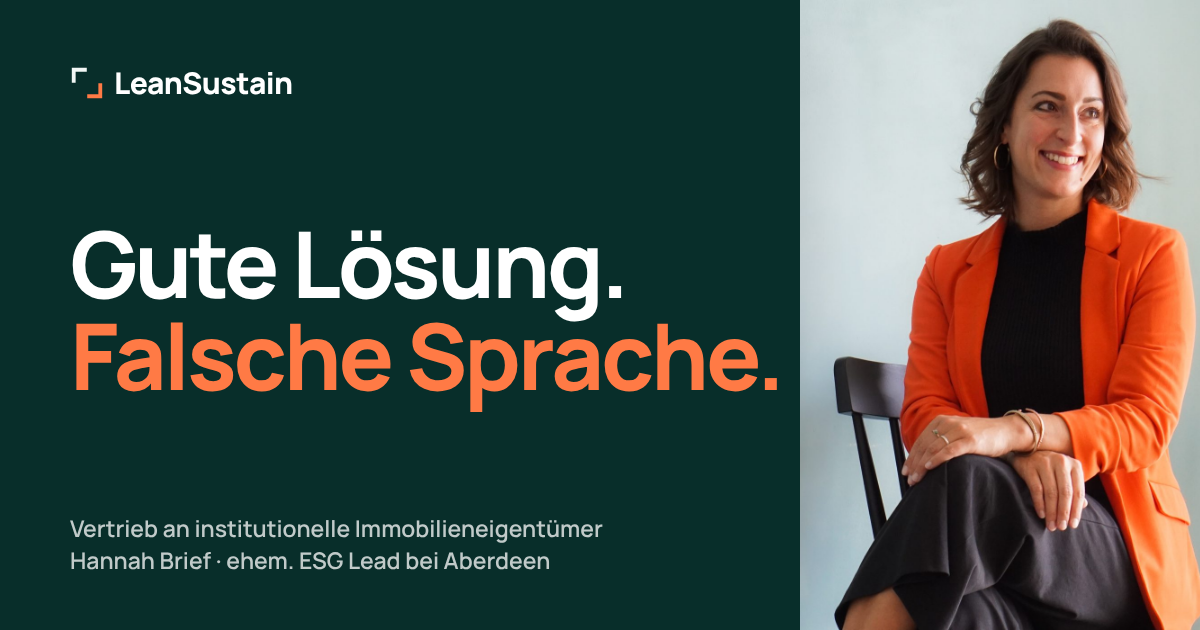
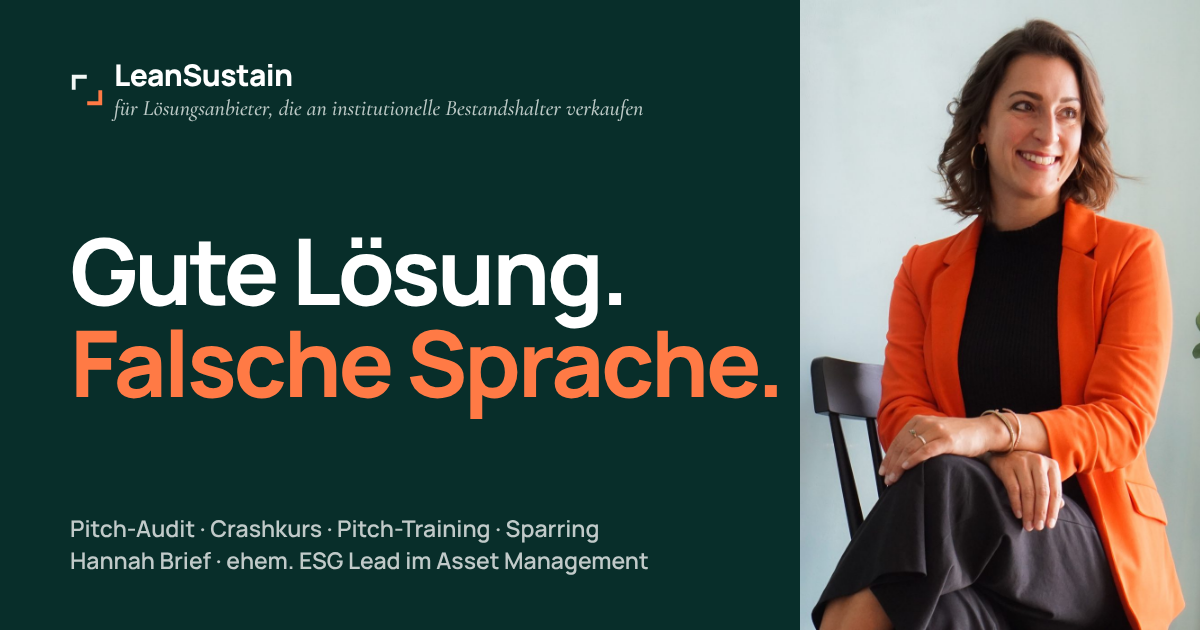
Add files via upload

diff --git a/index.html b/index.html
@@ -3,14 +3,14 @@
 <head>
 <meta charset="UTF-8">
 <meta name="viewport" content="width=device-width, initial-scale=1">
-<title>Vertrieb an institutionelle Immobilieneigentümer | LeanSustain</title>
-<meta name="description" content="Gute Lösung, falsche Sprache? Pitch-Audit, Crashkurs, Pitch-Training, Sparring und Onboarding für Anbieter, die an Asset Manager, Fonds und institutionelle Immobilieneigentümer verkaufen. Hannah Brief, Frankfurt.">
+<title>LeanSustain – Brücke zwischen Technik und Eigentümersprache</title>
+<meta name="description" content="Pitch-Audit, Crashkurs, Pitch-Training und Sparring für Lösungsanbieter, die an institutionelle Bestandshalter verkaufen. Von einer ehemaligen ESG Lead im Asset Management. Frankfurt.">
 <link rel="canonical" href="https://leansustain.de/">
 <meta property="og:type" content="website">
 <meta property="og:url" content="https://leansustain.de/">
 <meta property="og:site_name" content="LeanSustain">
-<meta property="og:title" content="Gute Lösung. Falsche Sprache.">
-<meta property="og:description" content="Ich bringe Vertriebsteams bei, so zu argumentieren, wie institutionelle Immobilieneigentümer entscheiden: nach Rendite, Risiko und Pflicht.">
+<meta property="og:title" content="LeanSustain – Gute Lösung. Falsche Sprache.">
+<meta property="og:description" content="Ich bringe Vertriebsteams von Lösungsanbietern bei, so zu argumentieren, wie institutionelle Bestandshalter entscheiden: nach Rendite, Risiko, Pflicht und Vermietbarkeit.">
 <meta property="og:image" content="https://leansustain.de/assets/og-image.png">
 <meta property="og:image:width" content="1200">
 <meta property="og:image:height" content="630">
@@ -19,10 +19,10 @@
 <meta name="theme-color" content="#082E2A">
 <link rel="icon" href="assets/favicon.svg" type="image/svg+xml">
 <link rel="preload" href="fonts/Manrope.woff2" as="font" type="font/woff2" crossorigin>
-<link rel="stylesheet" href="assets/styles.css?v=20261029d">
+<link rel="stylesheet" href="assets/styles.css?v=20261029f">
 <script type="application/ld+json">
 {"@context":"https://schema.org","@graph":[
-{"@type":"ProfessionalService","@id":"https://leansustain.de/#org","name":"LeanSustain","url":"https://leansustain.de/","logo":"https://leansustain.de/assets/favicon.svg","image":"https://leansustain.de/assets/og-image.png","email":"hannah@leansustain.de","telephone":"+4915144900768","address":{"@type":"PostalAddress","addressLocality":"Frankfurt am Main","addressCountry":"DE"},"areaServed":["DE","AT","CH"],"description":"Vertriebs-Enablement für Anbieter, die an institutionelle Immobilieneigentümer verkaufen: Pitch-Audit, Crashkurs, Pitch-Training, Sparring und Onboarding-Module.","founder":{"@id":"https://leansustain.de/#hannah"}},
+{"@type":"ProfessionalService","@id":"https://leansustain.de/#org","name":"LeanSustain","url":"https://leansustain.de/","logo":"https://leansustain.de/assets/favicon.svg","image":"https://leansustain.de/assets/og-image.png","email":"hannah@leansustain.de","telephone":"+4915144900768","address":{"@type":"PostalAddress","addressLocality":"Frankfurt am Main","addressCountry":"DE"},"areaServed":["DE","AT","CH"],"description":"Vertriebs-Enablement für Lösungsanbieter, die an institutionelle Bestandshalter verkaufen: Pitch-Audit, Crashkurs, Pitch-Training, Sparring und Onboarding-Module.","founder":{"@id":"https://leansustain.de/#hannah"}},
 {"@type":"Person","@id":"https://leansustain.de/#hannah","name":"Hannah Brief","jobTitle":"Beraterin","worksFor":{"@id":"https://leansustain.de/#org"},"sameAs":["https://www.linkedin.com/in/hannah-brief-a93555134/"]}
 ]}
 </script>
@@ -31,7 +31,7 @@
 
 <header class="site-header" id="top">
   <div class="wrap head-in">
-    <a class="logo" href="#top" aria-label="LeanSustain, zum Seitenanfang"><svg viewBox="0 0 32 32" aria-hidden="true"><path d="M3.5 14V3.5H14" fill="none" stroke="#F2F7F5" stroke-width="3.6" stroke-linecap="square"/><path d="M28.5 18v10.5H18" fill="none" stroke="#FF7A45" stroke-width="3.6" stroke-linecap="square"/></svg>LeanSustain</a>
+    <a class="logo" href="#top" aria-label="LeanSustain, zum Seitenanfang"><svg viewBox="0 0 32 32" aria-hidden="true"><path d="M3.5 14V3.5H14" fill="none" stroke="#F2F7F5" stroke-width="3.6" stroke-linecap="square"/><path d="M28.5 18v10.5H18" fill="none" stroke="#FF7A45" stroke-width="3.6" stroke-linecap="square"/></svg><span class="brand">LeanSustain<em>für Lösungsanbieter, die an institutionelle Bestandshalter verkaufen</em></span></a>
     <nav class="nav">
       <a href="#problem">Warum es hakt</a>
       <a href="#angebot">Angebot</a>
@@ -45,12 +45,12 @@
 <section class="hero">
   <div class="wrap">
     <div>
-      <span class="for">Für Anbieter, die an institutionelle Immobilieneigentümer verkaufen</span>
+      <p class="for-m">Für Lösungsanbieter, die an institutionelle Bestandshalter verkaufen</p>
       <h1>Gute Lösung. <mark>Falsche Sprache.</mark></h1>
       <p class="sub">Institutionelle Eigentümer entscheiden nach Rendite, Risiko, Pflicht und Vermietbarkeit. Ich bringe deinem Vertrieb bei, genau so zu argumentieren.</p>
       <div class="cta">
         <a class="btn btn-accent" href="#kontakt">Schreib mir <svg viewBox="0 0 24 24" fill="none" stroke="currentColor" stroke-width="2"><path d="M5 12h14M13 6l6 6-6 6"/></svg></a>
-        <a class="btn btn-line" href="tel:+4915144900768"><svg viewBox="0 0 24 24" fill="none" stroke="currentColor" stroke-width="2"><path d="M5 4h4l2 5-2.5 1.5a11 11 0 0 0 5 5L15 13l5 2v4a2 2 0 0 1-2 2A16 16 0 0 1 3 6a2 2 0 0 1 2-2"/></svg>Ruf mich an</a>
+        <a class="btn btn-line" href="tel:+4915144900768" data-call><svg viewBox="0 0 24 24" fill="none" stroke="currentColor" stroke-width="2"><path d="M5 4h4l2 5-2.5 1.5a11 11 0 0 0 5 5L15 13l5 2v4a2 2 0 0 1-2 2A16 16 0 0 1 3 6a2 2 0 0 1 2-2"/></svg>Ruf mich an</a>
       </div>
     </div>
     <div class="hero-art">
@@ -147,12 +147,15 @@
     </div>
 
     <div class="persp">
-      <h3>Diese Perspektiven musst du mitdenken</h3>
-      <div class="persp-row">
-        <div class="pg decide"><span class="pg-lbl">Entscheiden</span><div class="chips"><span class="chip">Fondsmanagement</span><span class="chip">Asset Management</span></div></div>
-        <div class="pg"><span class="pg-lbl">Mit ins Boot</span><div class="chips"><span class="chip">Property Management</span><span class="chip">Facility Management</span><span class="chip">Mieter</span></div></div>
-        <div class="pg"><span class="pg-lbl">Prüfen mit</span><div class="chips"><span class="chip">Finanzierung</span><span class="chip">Versicherung</span></div></div>
+      <div class="persp-txt">
+        <h3>Diese Perspektiven musst du mitdenken</h3>
+        <p><b>Im Kern entscheiden</b> Fondsmanagement und Asset Management.</p>
+        <p><b>Mit ins Boot</b> müssen Property Management, Facility Management und die Mieter. Ohne sie kippt die Umsetzung.</p>
+        <p><b>Von außen prüfen</b> Finanzierung und Versicherung mit.</p>
       </div>
+      <svg class="orbit" viewBox="0 0 520 510" role="img" aria-label="Einflusskreise: Fondsmanagement und Asset Management entscheiden, Property Management, Facility Management und Mieter müssen mit ins Boot, Finanzierung und Versicherung prüfen mit">
+          <circle class="r3" cx="260" cy="255" r="245"/><circle class="r2" cx="260" cy="255" r="172"/><circle class="r1" cx="260" cy="255" r="90"/><text class="lbl" x="260" y="42" text-anchor="middle">PRÜFEN MIT</text><text class="lbl" x="260" y="113" text-anchor="middle">MIT INS BOOT</text><text class="lbl in" x="260" y="235" text-anchor="middle">ENTSCHEIDEN</text><text class="core" x="260" y="260" text-anchor="middle">Fondsmanagement</text><text class="core" x="260" y="282" text-anchor="middle">Asset Management</text><g class="bd"><rect x="34" y="167" width="170" height="32" rx="16"/><text x="119" y="188" text-anchor="middle">Property Management</text></g><g class="bd"><rect x="316" y="167" width="170" height="32" rx="16"/><text x="401" y="188" text-anchor="middle">Facility Management</text></g><g class="bd"><rect x="224" y="369" width="72" height="32" rx="16"/><text x="260" y="390" text-anchor="middle">Mieter</text></g><g class="bd out"><rect x="18" y="345" width="117" height="32" rx="16"/><text x="76" y="366" text-anchor="middle">Finanzierung</text></g><g class="bd out"><rect x="385" y="345" width="117" height="32" rx="16"/><text x="444" y="366" text-anchor="middle">Versicherung</text></g>
+        </svg>
     </div>
   </div>
 </section>
@@ -188,14 +191,14 @@
         <div class="ico"><svg viewBox="0 0 24 24" fill="none" stroke="currentColor" stroke-width="2"><path d="M2 9l10-5 10 5-10 5z"/><path d="M6 11v5c3 2 9 2 12 0v-5"/></svg></div>
         <h3>Crashkurs</h3>
         <p>Workshop für dein Team: wie Eigentümer entscheiden, was für sie und ihre Mieter wirklich zählt und wo dein Produkt genau darauf einzahlt.</p>
-        <span class="fmt">Team bis 12 · 1 Tag vor Ort oder online</span>
+        <span class="fmt">Kompakt in wenigen Stunden · vor Ort oder online</span>
       </article>
       <article class="card" data-b="training">
         <span class="badge">Im Paket</span>
         <div class="ico"><svg viewBox="0 0 24 24" fill="none" stroke="currentColor" stroke-width="2"><path d="M4 5h16v10H9l-5 4z"/></svg></div>
         <h3>Pitch-Training</h3>
         <p>Rollenspiele mit den echten Einwänden der Eigentümerseite. Vom Pilot zum Rahmenvertrag.</p>
-        <span class="fmt">3 Sessions mit deinen Vertriebsleuten</span>
+        <span class="fmt">Sessions mit deinen Vertriebsleuten</span>
       </article>
       <article class="card" data-b="sparring">
         <span class="badge">Im Paket</span>
@@ -223,9 +226,9 @@
     <div>
       <span class="kicker">Über mich</span>
       <h2>Ich saß auf der Eigentümerseite.</h2>
-      <p class="txt">Als ESG Lead Asset Management Europe bei Aberdeen habe ich Anbieter ausgewählt, Verträge verhandelt und Lösungen ins Portfolio gebracht. Heute helfe ich Anbietern, dort zu überzeugen.</p>
+      <p class="txt">Als ESG Lead Asset Management Europe bei einem internationalen Investment Manager habe ich Anbieter ausgewählt, Verträge verhandelt und Lösungen ins Portfolio gebracht. Heute helfe ich Anbietern, dort zu überzeugen.</p>
       <div class="facts">
-        <div><b>12 Jahre</b><span>Immobilienwirtschaft</span></div>
+        <div><b>10 Jahre</b><span>Immobilienwirtschaft</span></div>
         <div><b>6 Jahre</b><span>Nachhaltigkeit und ESG</span></div>
         <div><b>Mittendrin</b><span>Network Lead SustainEstate Frankfurt</span></div>
       </div>
@@ -240,7 +243,7 @@
     <div class="choice">
       <h3>Schreib mir</h3>
       <p style="opacity:.8">Schick mir dein Deck oder eine kurze Nachricht.</p>
-      <div class="row"><a class="btn btn-accent" href="mailto:hannah@leansustain.de?subject=Anfrage%20LeanSustain">E-Mail</a><a class="btn btn-line" href="https://www.linkedin.com/in/hannah-brief-a93555134/" rel="noopener">LinkedIn</a></div>
+      <div class="row"><a class="btn btn-accent" href="mailto:hannah@leansustain.de?subject=Anfrage%20LeanSustain">E-Mail</a><a class="btn btn-line" href="https://www.linkedin.com/in/hannah-brief-a93555134/" target="_blank" rel="noopener">LinkedIn</a></div>
     </div>
     <div class="choice">
       <h3>Ruf mich an</h3>
@@ -250,7 +253,7 @@
   </div>
 </section>
 
-<footer><div class="wrap"><span>© 2026 Hannah Brief · LeanSustain · Frankfurt am Main</span><span><a href="https://www.linkedin.com/in/hannah-brief-a93555134/" rel="noopener">LinkedIn</a><a href="impressum.html">Impressum</a><a href="datenschutz.html">Datenschutz</a></span></div></footer>
+<footer><div class="wrap"><span>© 2026 Hannah Brief · LeanSustain · Frankfurt am Main</span><span><a href="https://www.linkedin.com/in/hannah-brief-a93555134/" target="_blank" rel="noopener">LinkedIn</a><a href="impressum.html">Impressum</a><a href="datenschutz.html">Datenschutz</a></span></div></footer>
 
 <script>
 (function () {
@@ -286,6 +289,13 @@
     });
   });
 })();
+  // Ruf mich an: auf Geräten ohne Telefon zum Kontaktbereich
+  (function () {
+    var c = document.querySelector('[data-call]');
+    if (c && window.matchMedia && window.matchMedia('(hover: hover) and (pointer: fine)').matches) {
+      c.setAttribute('href', '#kontakt');
+    }
+  })();
 </script>
 </body>
 </html>

diff --git a/assets/styles.css b/assets/styles.css
@@ -196,3 +196,36 @@ footer a { text-decoration: none; margin-left: 18px; }
 .pg.decide .pg-lbl { color: var(--petrol-dark); }
 .also { white-space: normal; }
 @media (min-width: 1021px) { .also { white-space: nowrap; overflow: hidden; text-overflow: ellipsis; } }
+
+/* ---------- v5: Header-Claim, Einflusskreise ---------- */
+@font-face { font-family: "Cormorant Garamond"; font-style: italic; font-weight: 400 500; font-display: swap; src: url("../fonts/CormorantGaramond-italic.woff2") format("woff2"); }
+.logo { align-items: center; }
+.brand { display: flex; flex-direction: column; line-height: 1; }
+.brand em { font: italic 500 16px/1.1 "Cormorant Garamond", Georgia, serif; letter-spacing: 0; color: rgba(242,247,245,.78); margin-top: 3px; }
+.for-m { display: none; font: italic 500 19px/1.3 "Cormorant Garamond", Georgia, serif; color: var(--petrol); margin: 0 0 18px; }
+.hero .for { display: none; }
+
+.persp { display: grid; grid-template-columns: .9fr 1.1fr; gap: clamp(28px, 5vw, 64px); align-items: center; }
+.persp-txt h3 { font-size: clamp(1.4rem, 2.2vw, 1.8rem); letter-spacing: -0.02em; margin-bottom: 18px; }
+.persp-txt p { color: var(--muted); font-size: 16px; margin: 0 0 12px; padding-left: 16px; border-left: 3px solid var(--line); }
+.persp-txt p:nth-of-type(1) { border-left-color: var(--petrol-dark); }
+.persp-txt p:nth-of-type(2) { border-left-color: #9DBBB5; }
+.persp-txt p:nth-of-type(3) { border-left-color: #D5E3DF; }
+.persp-txt b { color: var(--ink); }
+.orbit { width: 100%; max-width: 520px; height: auto; justify-self: center; overflow: visible; }
+.orbit .r3 { fill: #FFFFFF; stroke: rgba(8,46,42,.10); stroke-dasharray: 4 6; }
+.orbit .r2 { fill: #E2EDEA; }
+.orbit .r1 { fill: var(--petrol-dark); }
+.orbit text { font-family: var(--font); }
+.orbit .lbl { font-size: 12px; font-weight: 800; letter-spacing: .08em; fill: var(--muted); }
+.orbit .lbl.in { fill: rgba(255,255,255,.65); font-size: 11px; }
+.orbit .core { font-size: 15px; font-weight: 800; fill: #fff; letter-spacing: -0.01em; }
+.orbit .bd rect { fill: #fff; stroke: rgba(8,46,42,.14); filter: drop-shadow(0 6px 10px rgba(8,46,42,.10)); }
+.orbit .bd text { font-size: 13px; font-weight: 700; fill: var(--ink); }
+.orbit .bd.out rect { fill: var(--soft); }
+
+@media (max-width: 1020px) {
+  .persp { grid-template-columns: 1fr; }
+  .brand em { display: none; }
+  .for-m { display: block; }
+}

diff --git a/datenschutz.html b/datenschutz.html
@@ -6,10 +6,10 @@
 <title>Datenschutz · LeanSustain</title>
 <meta name="robots" content="noindex, follow">
 <link rel="icon" href="assets/favicon.svg" type="image/svg+xml">
-<link rel="stylesheet" href="assets/styles.css?v=20261029d">
+<link rel="stylesheet" href="assets/styles.css?v=20261029f">
 </head>
 <body>
-<header class="site-header"><div class="wrap head-in"><a class="logo" href="index.html" aria-label="LeanSustain, zur Startseite"><svg viewBox="0 0 32 32" aria-hidden="true"><path d="M3.5 14V3.5H14" fill="none" stroke="#F2F7F5" stroke-width="3.6" stroke-linecap="square"/><path d="M28.5 18v10.5H18" fill="none" stroke="#FF7A45" stroke-width="3.6" stroke-linecap="square"/></svg>LeanSustain</a><a class="back" href="index.html">← Zur Startseite</a></div></header>
+<header class="site-header"><div class="wrap head-in"><a class="logo" href="index.html" aria-label="LeanSustain, zur Startseite"><svg viewBox="0 0 32 32" aria-hidden="true"><path d="M3.5 14V3.5H14" fill="none" stroke="#F2F7F5" stroke-width="3.6" stroke-linecap="square"/><path d="M28.5 18v10.5H18" fill="none" stroke="#FF7A45" stroke-width="3.6" stroke-linecap="square"/></svg><span class="brand">LeanSustain<em>für Lösungsanbieter, die an institutionelle Bestandshalter verkaufen</em></span></a><a class="back" href="index.html">← Zur Startseite</a></div></header>
 <main class="legal"><div class="wrap">
 <h1>Datenschutzerklärung</h1>
 <h2>1. Verantwortliche</h2>

diff --git a/impressum.html b/impressum.html
@@ -6,10 +6,10 @@
 <title>Impressum · LeanSustain</title>
 <meta name="robots" content="noindex, follow">
 <link rel="icon" href="assets/favicon.svg" type="image/svg+xml">
-<link rel="stylesheet" href="assets/styles.css?v=20261029d">
+<link rel="stylesheet" href="assets/styles.css?v=20261029f">
 </head>
 <body>
-<header class="site-header"><div class="wrap head-in"><a class="logo" href="index.html" aria-label="LeanSustain, zur Startseite"><svg viewBox="0 0 32 32" aria-hidden="true"><path d="M3.5 14V3.5H14" fill="none" stroke="#F2F7F5" stroke-width="3.6" stroke-linecap="square"/><path d="M28.5 18v10.5H18" fill="none" stroke="#FF7A45" stroke-width="3.6" stroke-linecap="square"/></svg>LeanSustain</a><a class="back" href="index.html">← Zur Startseite</a></div></header>
+<header class="site-header"><div class="wrap head-in"><a class="logo" href="index.html" aria-label="LeanSustain, zur Startseite"><svg viewBox="0 0 32 32" aria-hidden="true"><path d="M3.5 14V3.5H14" fill="none" stroke="#F2F7F5" stroke-width="3.6" stroke-linecap="square"/><path d="M28.5 18v10.5H18" fill="none" stroke="#FF7A45" stroke-width="3.6" stroke-linecap="square"/></svg><span class="brand">LeanSustain<em>für Lösungsanbieter, die an institutionelle Bestandshalter verkaufen</em></span></a><a class="back" href="index.html">← Zur Startseite</a></div></header>
 <main class="legal"><div class="wrap">
 <h1>Impressum</h1>
 <h2>Angaben gemäß § 5 DDG</h2>
